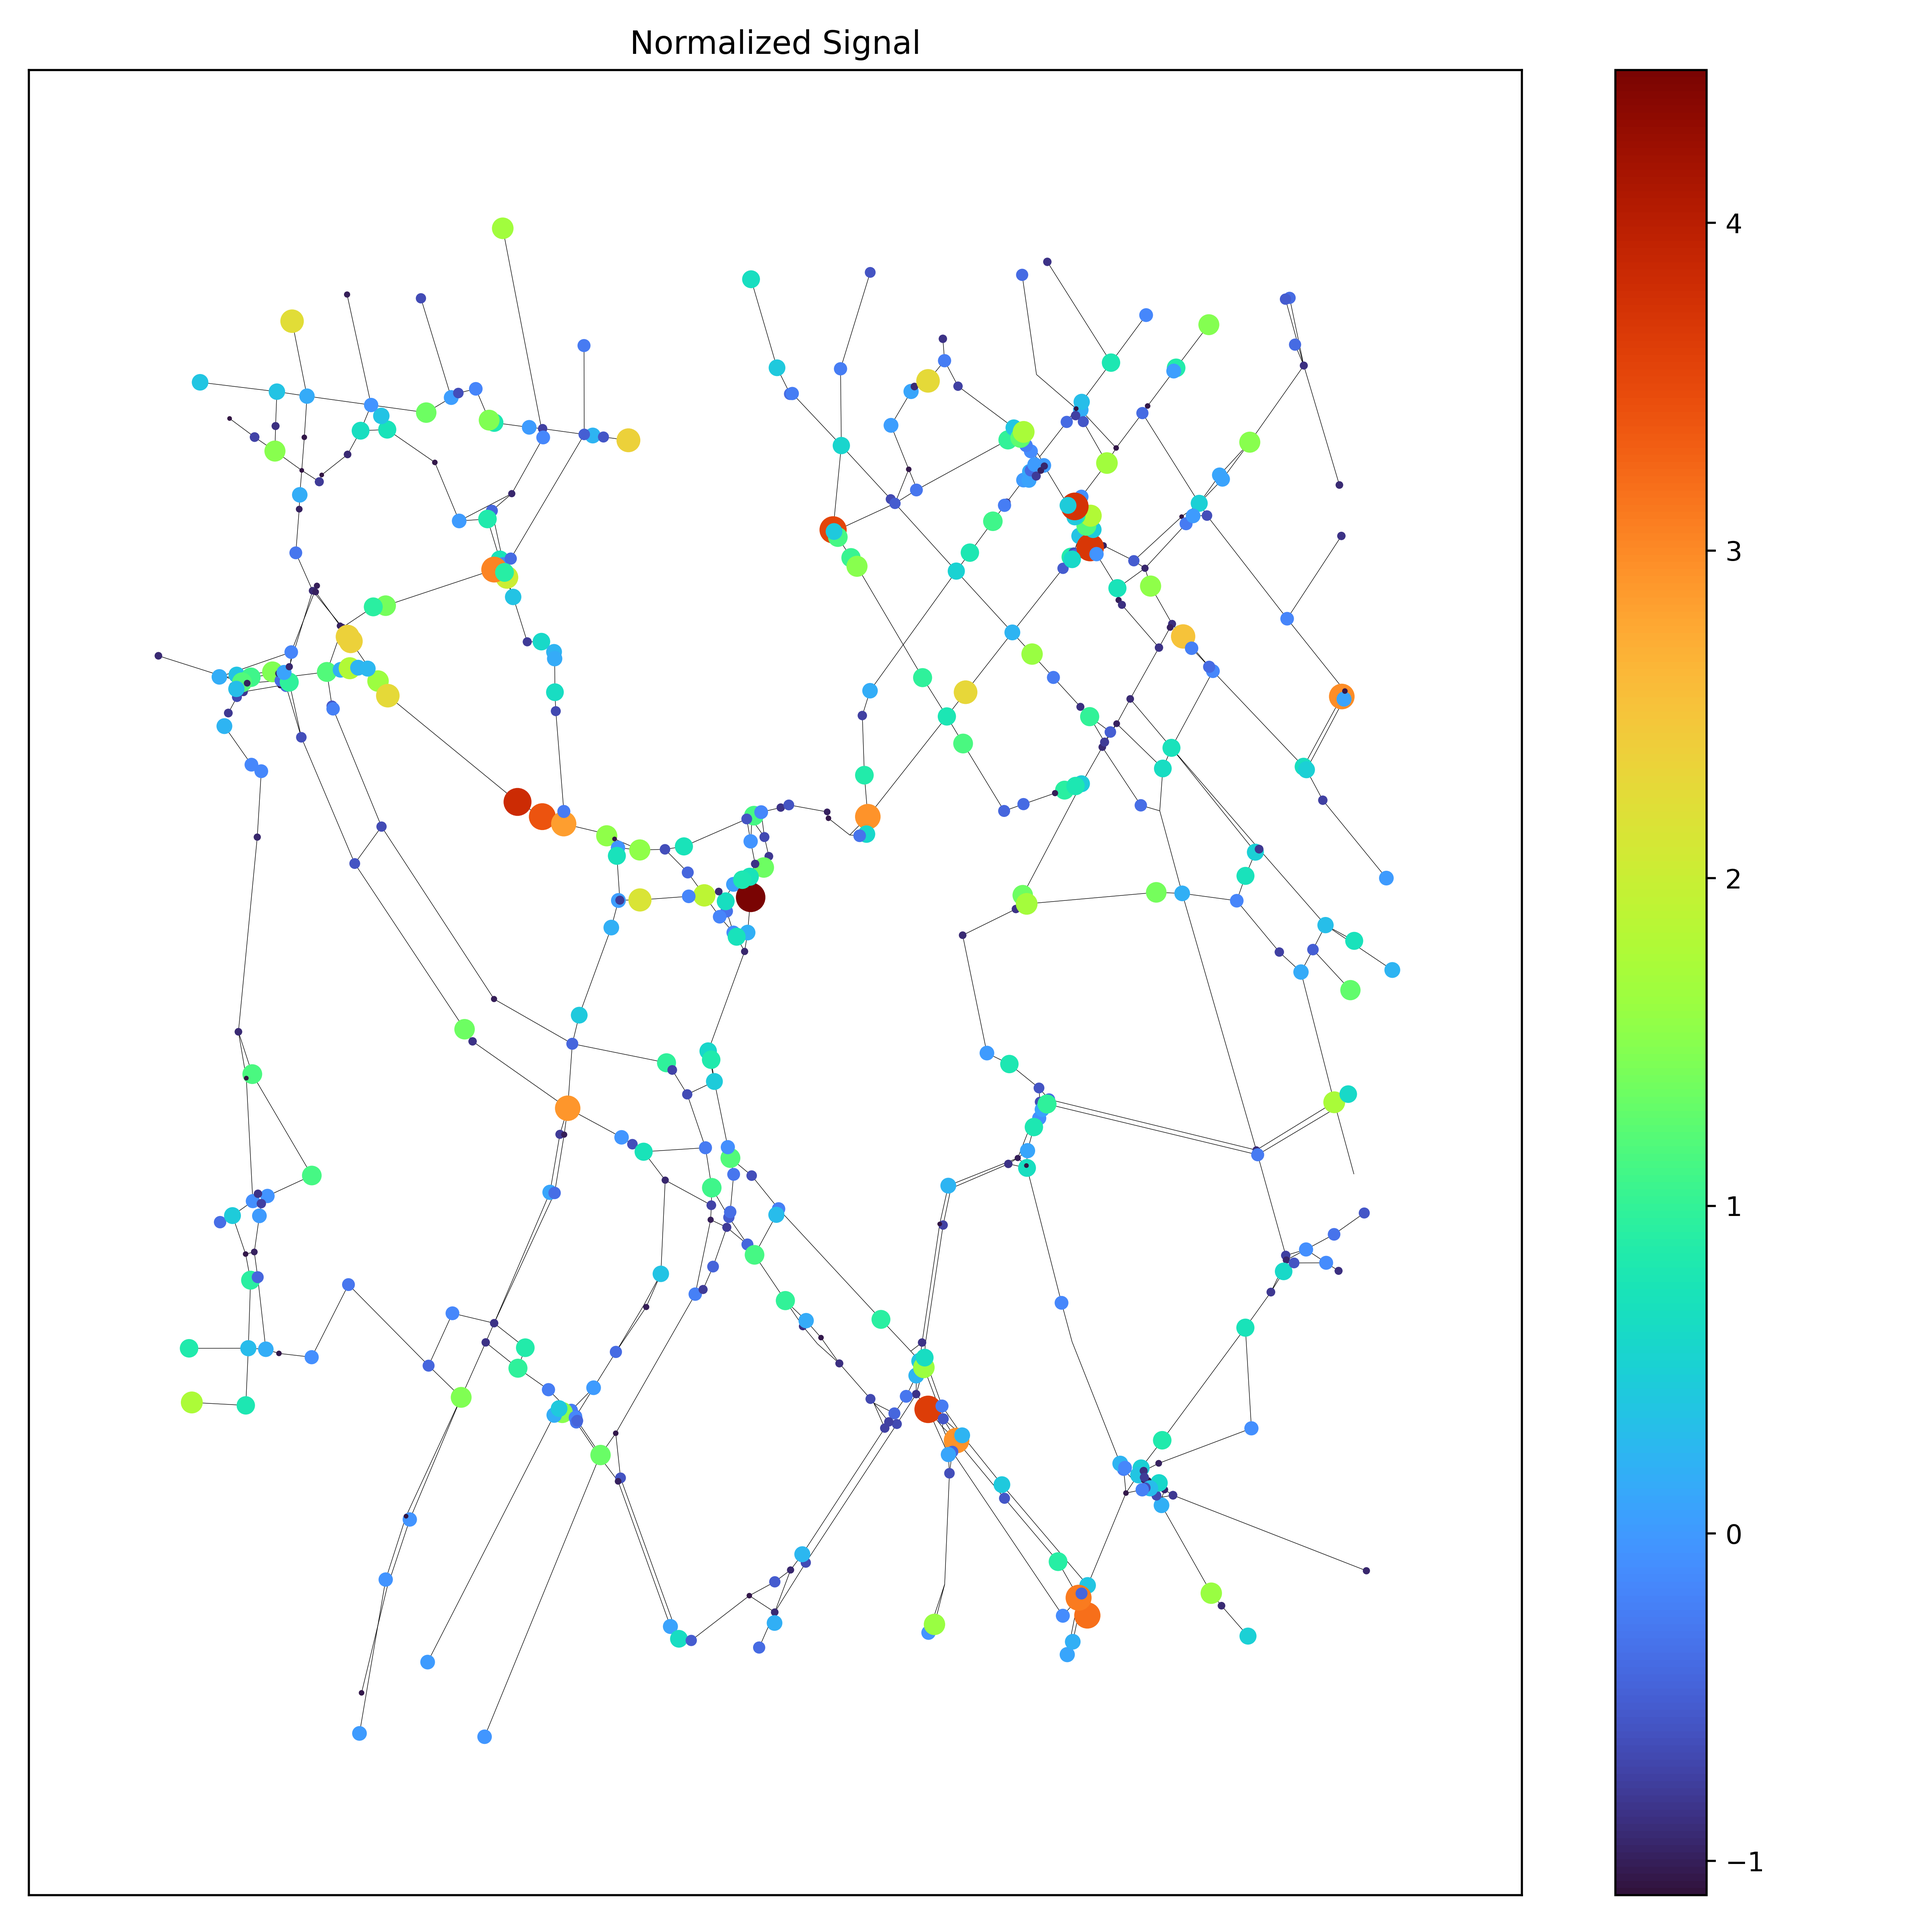
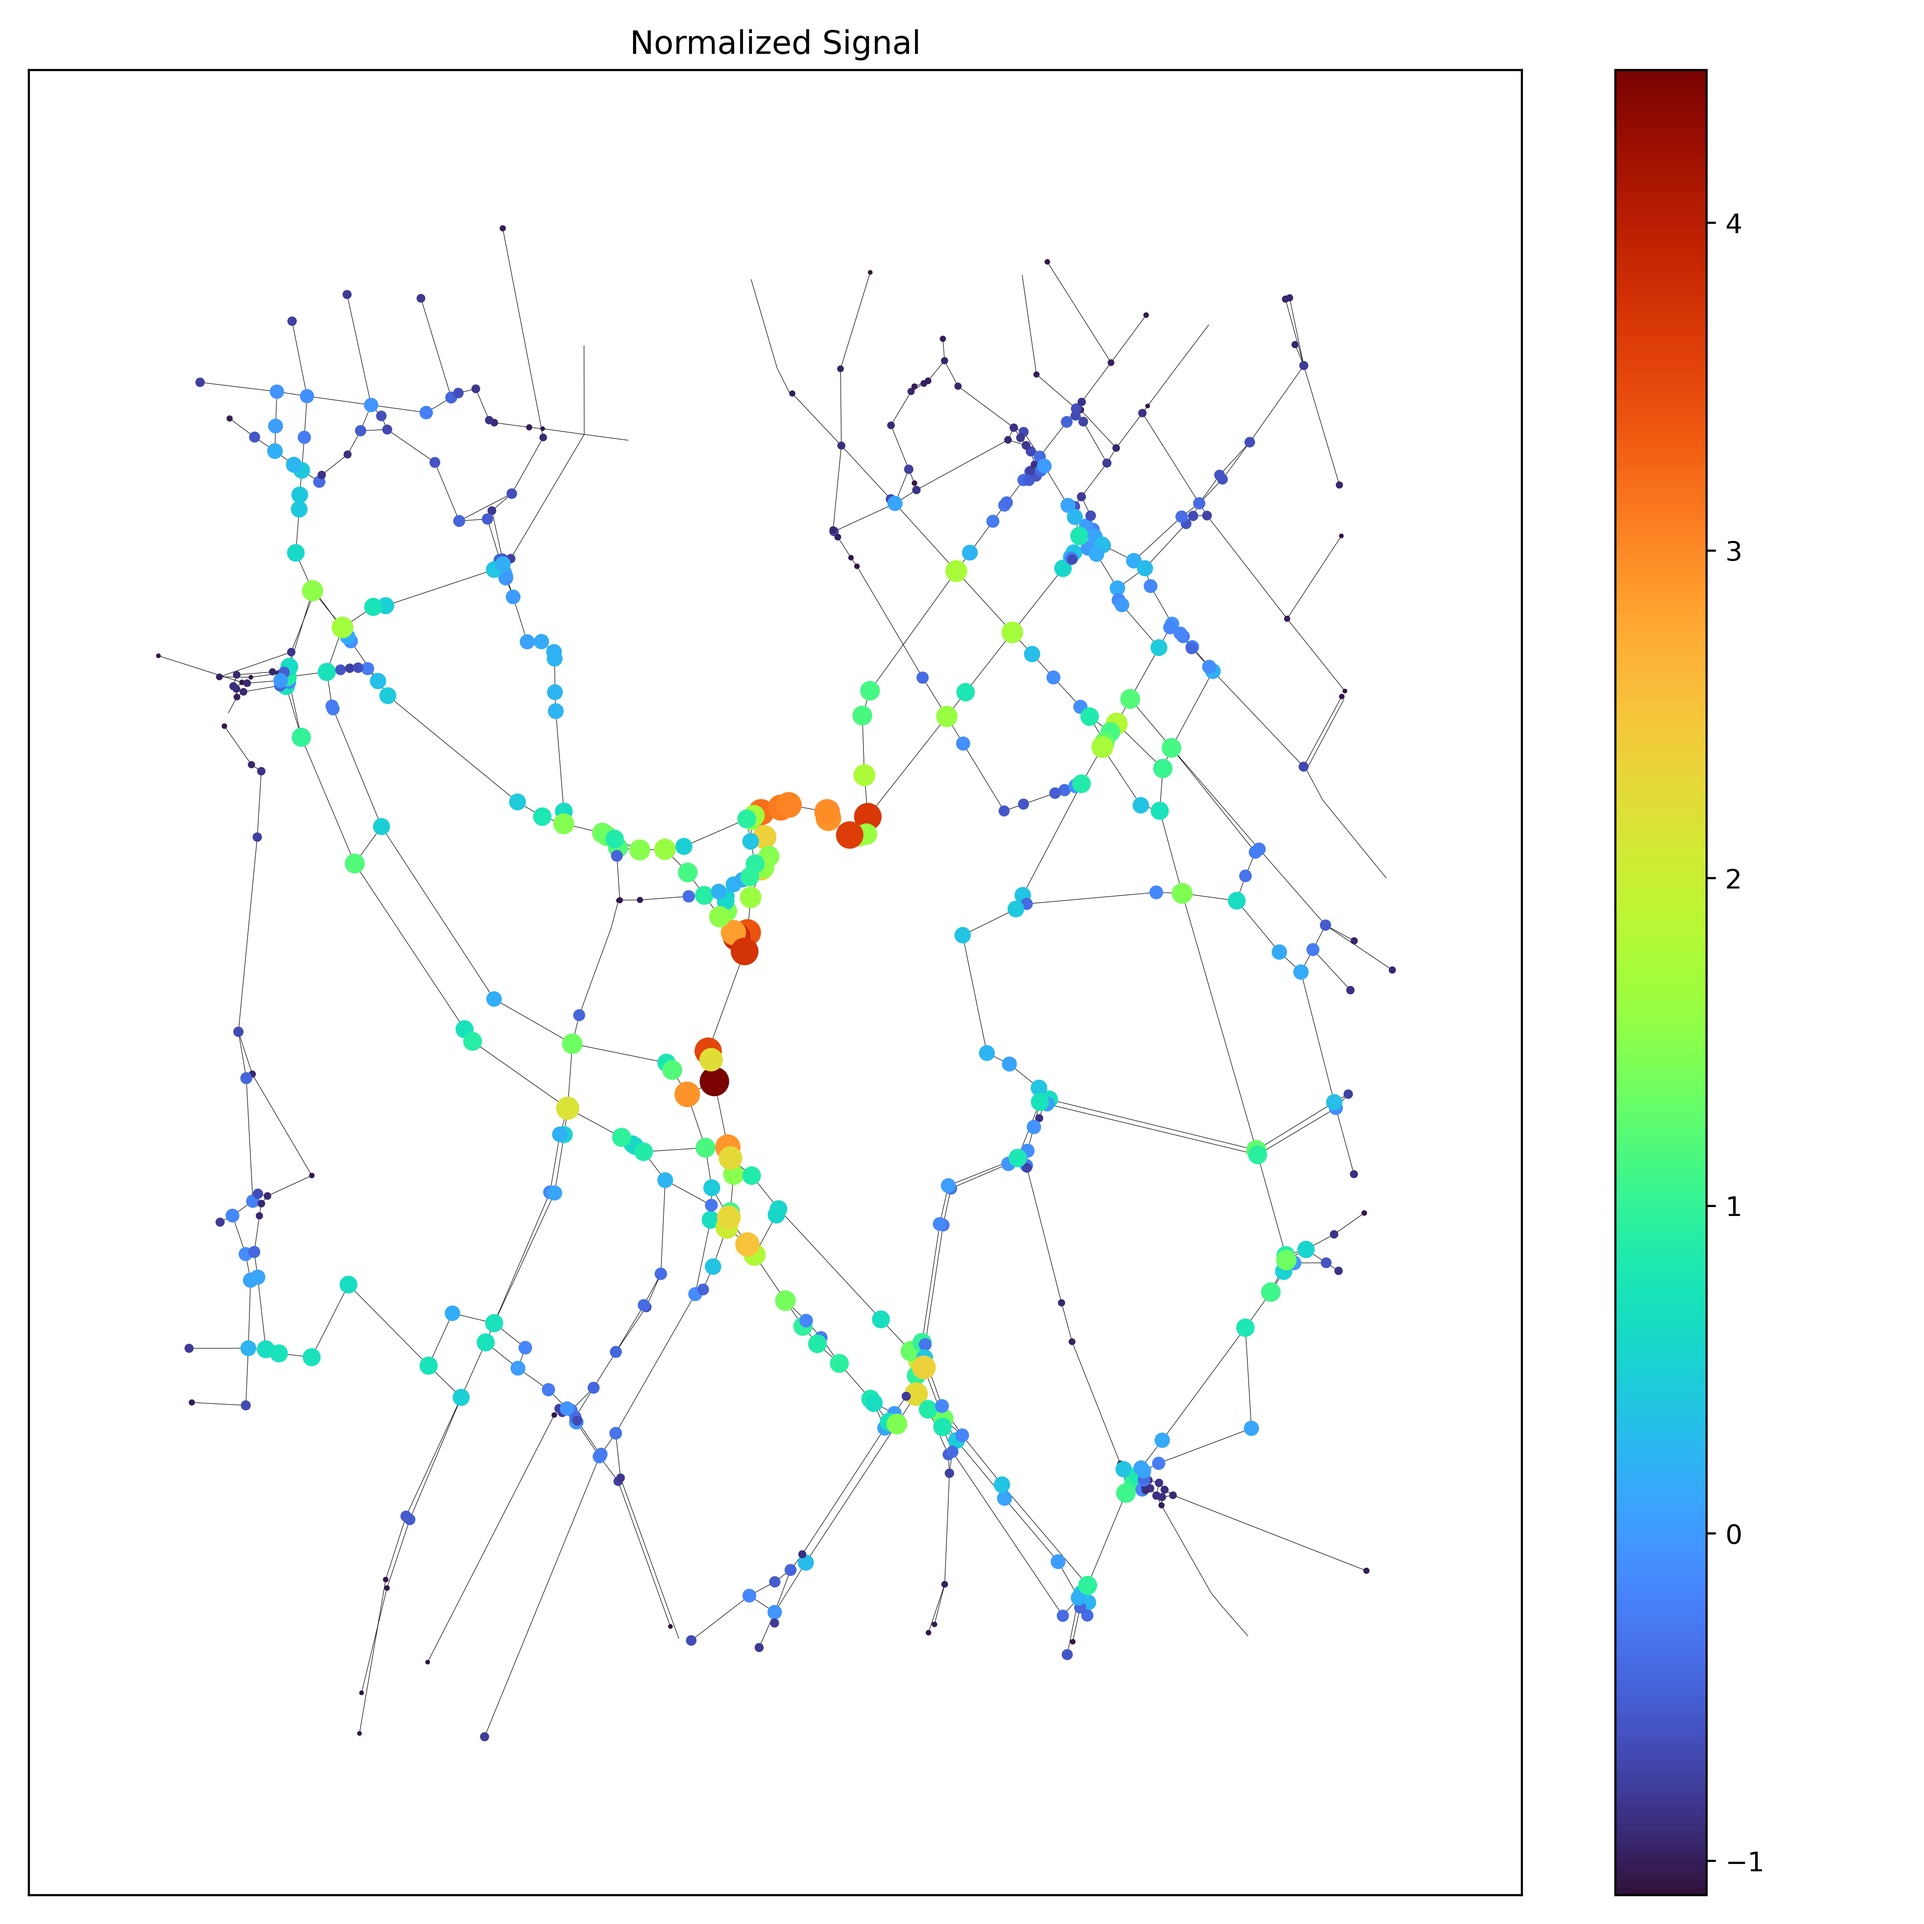
Update for graphical function

diff --git a/GSP_TRAFFIC_Python/src/util.py b/GSP_TRAFFIC_Python/src/util.py
@@ -92,6 +92,7 @@ def _save_graph(
     else:
         nx.draw_networkx_nodes(
             G=graphD,
+            nodelist=np.arange(len(position_dict)),
             pos=position_dict,
             node_color=use_node_values,
             cmap="turbo",
@@ -146,7 +147,11 @@ def gsp_design_smooth_indicator(G, a1, a2):
     lmax = G.lmax
     fx = lambda x, a: np.exp(-a / x) * (x >= 0)
     gx = lambda x, a: fx(x, a) / (fx(x, a) + fx(1 - x, a))
-    ffin = lambda x, a1, a2: gx(1 - (x - a1) / (a2 - a1), 1) * (x >= a1)
+    ffin = lambda x, a1, a2: np.where(
+        x >= a1, 
+        gx(1 - (x - a1) / (a2 - a1), 1),
+        np.where(x >= 0, 1, 0)
+    )
     g = lambda x: ffin(x / lmax, a1, a2)
     return filters.Filter(G, g)
 

diff --git a/GSP_TRAFFIC_Python/src/test.py b/GSP_TRAFFIC_Python/src/test.py
@@ -61,8 +61,8 @@ def main():
     )
     util.save_filter(g, "Italy_Rome_filter.png", fig_title="Filter")
 
-    default_mse = np.sqrt(np.sum((normilized_data - noizy_signal) ** 2)) / 279
-    filtered_mse = np.sqrt(np.sum((normilized_data - x) ** 2)) / 279
+    default_mse = np.sqrt(np.sum((normilized_data - noizy_signal) ** 2)) / G.N
+    filtered_mse = np.sqrt(np.sum((normilized_data - x) ** 2)) / G.N
 
     ## Plot results
     util.draw_graph(

diff --git a/gsp_traffic/Traffic_Demo.m b/gsp_traffic/Traffic_Demo.m
@@ -42,8 +42,8 @@ figure;
 subplot(121);gsp_plot_signal_spectral(G,f);title("Signal Spectrum",FontSize=16);
 subplot(122);gsp_plot_filter(G,g);title("Filter",FontSize=16);
 
-default_mse = sqrt(sum((signal-noizy_signal).^2))/279;
-filtered_mse = sqrt(sum((signal-x).^2))/279;
+default_mse = sqrt(sum((signal-noizy_signal).^2))/G.N;
+filtered_mse = sqrt(sum((signal-x).^2))/G.N;
 
 % Plot results
 figure;
